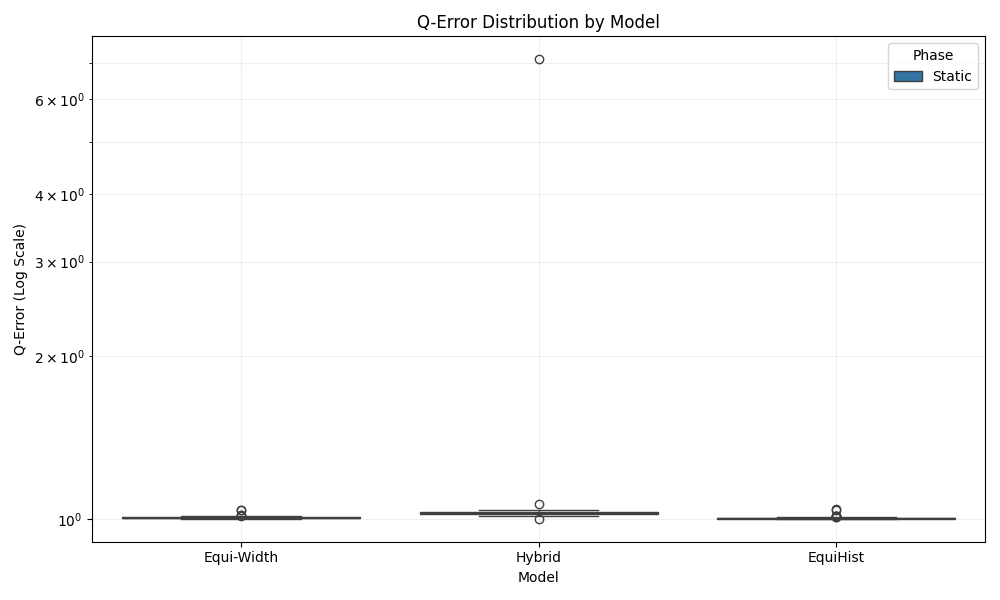
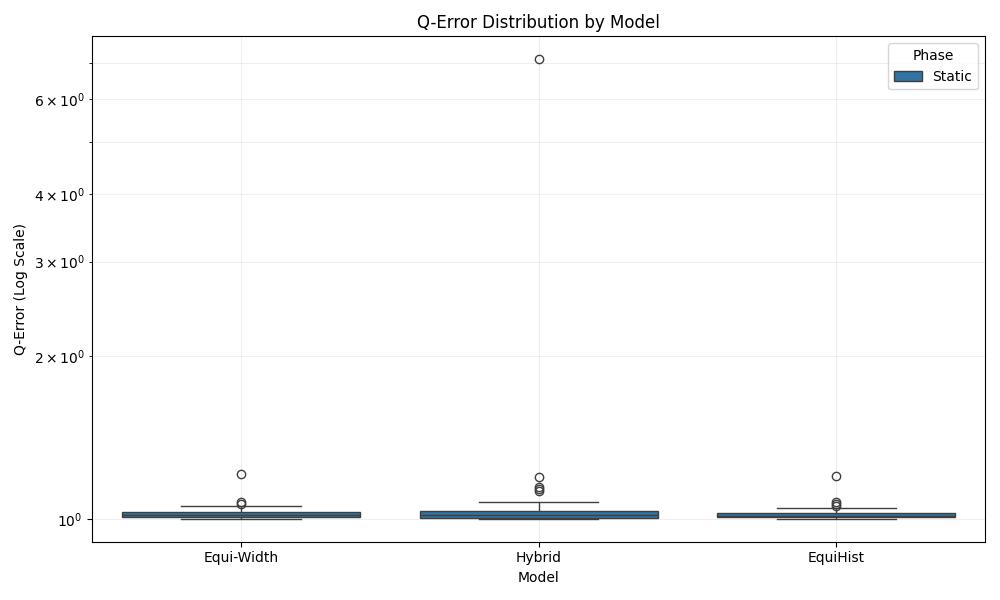
workload: enhance workload generation with max_width parameter and narrow workload support

diff --git a/aggregate_results.py b/aggregate_results.py
@@ -1,15 +1,16 @@
-
 import json
 import pandas as pd
+import numpy as np
 from pathlib import Path
-import argparse
+import re
 
 def aggregate_summaries(results_dir="results"):
     root = Path(results_dir)
     data = []
     
-    # Walk through year/dist directories
-    # Structure: results/{rows}/{dist}/summary.json
+    # Locate all result CSVs
+    # Pattern: results/{rows}/{dist}/{workload}.csv
+    # We want to avoid "_drift.csv" for now unless requested, but let's just grab main workload files
     
     for row_dir in root.iterdir():
         if not row_dir.is_dir(): continue
@@ -17,42 +18,54 @@ def aggregate_summaries(results_dir="results"):
         for dist_dir in row_dir.iterdir():
             if not dist_dir.is_dir(): continue
             
-            summary_path = dist_dir / "summary.json"
-            if summary_path.exists():
+            # Find all CSV files that look like workload results
+            for res_file in dist_dir.glob("*.csv"):
+                if "drift" in res_file.name or "benchmark_summary" in res_file.name:
+                    continue
+
+                workload_name = res_file.stem
+                
                 try:
-                    with open(summary_path, "r") as f:
-                        res = json.load(f)
+                    df = pd.read_csv(res_file)
+                    if "Q_Error" not in df.columns:
+                        continue
+                        
+                    # Calculate stats per Model
+                    models = df["Model"].unique()
                     
-                    rows = res.get("row_count", row_dir.name)
-                    dist = res.get("distribution", dist_dir.name)
-                    metrics = res.get("metrics", {})
-                    
-                    for model_name, stats in metrics.items():
-                        # "Distribution", "Model", "Build (s)", "Infer (s)", "Avg Q-Err", "95% Q-Err"
+                    for model in models:
+                        subset = df[df["Model"] == model]
+                        q_errs = subset["Q_Error"]
+                        
+                        med = q_errs.median()
+                        p95 = q_errs.quantile(0.95)
+                        avg = q_errs.mean()
+                        
                         data.append({
-                            "Distribution": dist, 
-                            "Rows": rows, 
-                            "Model": model_name,
-                            "Build (s)": stats.get("build_time_total", stats.get("build_time", 0)),
-                            "Infer (s)": stats.get("infer_time", 0),
-                            "Avg Q-Err": stats.get("avg_q_error", 0),
-                            "95% Q-Err": stats.get("p95_q_error", 0)
+                            "Distribution": dist_dir.name,
+                            "Rows": row_dir.name,
+                            "Workload": workload_name,
+                            "Model": model,
+                            "Avg Q-Err": avg,
+                            "95% Q-Err": p95,
+                            "Median Q-Err": med
                         })
+                        
                 except Exception as e:
-                    print(f"Skipping {summary_path} due to error: {e}")
+                    print(f"Error processing {res_file}: {e}")
 
     if not data:
-        print("No summary.json files found.")
+        print("No result CSVs found.")
         return
 
     df = pd.DataFrame(data)
     # Sort for readability
-    df = df.sort_values(by=["Rows", "Distribution", "Model"])
+    df = df.sort_values(by=["Rows", "Distribution", "Workload", "Model"])
     
     out_csv = "benchmark_summary.csv"
     df.to_csv(out_csv, index=False)
     print(f"Aggregated summary saved to {out_csv}")
-    print(df)
+    print(df.to_string())
 
 if __name__ == "__main__":
     aggregate_summaries()
